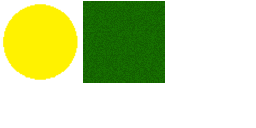
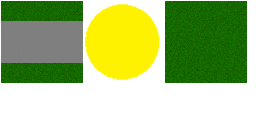
temp

diff --git a/core/src/com/imbabot/pacman_game/Hero.java b/core/src/com/imbabot/pacman_game/Hero.java
@@ -1,5 +1,6 @@
 package com.imbabot.pacman_game;
 
+
 import com.badlogic.gdx.Gdx;
 import com.badlogic.gdx.Input;
 import com.badlogic.gdx.graphics.Texture;
@@ -12,6 +13,7 @@ import com.badlogic.gdx.math.Vector2;
 
 public class Hero {
 
+
     private int rightBorder;
     private int leftBorder;
     private int top;
@@ -22,11 +24,6 @@ public class Hero {
     private float cellY;
     private TextureRegion texture;
     private float speed;
-
-    private boolean isPressedD;
-    private boolean isPressedA;
-    private boolean isPressedW;
-    private boolean isPressedS;
 
     private float offset;
 
@@ -43,10 +40,6 @@ public class Hero {
         this.cellX = 1;
         this.cellY = 1;
         this.speed = 5f;
-        this.isPressedD = false;
-        this.isPressedA = false;
-        this.isPressedS = false;
-        this.isPressedW = false;
         this.offset = 36;
         this.stringBuilder = new StringBuilder();
         this.score = 0;
@@ -56,25 +49,26 @@ public class Hero {
         this.top = 8;
         this.bottom = 0;
     }
-
     public void update(float dt){
         movement(dt);
         checkBounds();
     }
 
-    private void checkBounds(){
-        if (cellX > rightBorder){
+
+    private void checkBounds() {
+        if (cellX > rightBorder) {
             cellX = rightBorder;
         }
-        if (cellX < leftBorder){
+        if (cellX < leftBorder) {
             cellX = leftBorder;
         }
-        if (cellY > top){
+        if (cellY > top) {
             cellY = top;
         }
-        if (cellY < bottom){
+        if (cellY < bottom) {
             cellY = bottom;
         }
+    }
 
 //        if (position.x > 1280 - offset){
 //            position.x = 1280 - offset;
@@ -88,46 +82,20 @@ public class Hero {
 //        if (position.y < 0 + offset){
 //            position.y = 0 + offset;
 //        }
-    }
+
 
     public void movement(float dt){
-        if (Gdx.input.isKeyJustPressed(Input.Keys.D)){
-            isPressedD = true;
-            isPressedA = false;
-            isPressedS = false;
-            isPressedW = false;
-        }
-        if (Gdx.input.isKeyJustPressed(Input.Keys.A)){
-            isPressedD = false;
-            isPressedA = true;
-            isPressedS = false;
-            isPressedW = false;
-        }
-        if (Gdx.input.isKeyJustPressed(Input.Keys.S)){
-            isPressedD = false;
-            isPressedA = false;
-            isPressedS = true;
-            isPressedW = false;
-        }
-        if (Gdx.input.isKeyJustPressed(Input.Keys.W)){
-            isPressedD = false;
-            isPressedA = false;
-            isPressedS = false;
-            isPressedW = true;
-        }
-        if (isPressedA){
-            cellX -= speed * dt;
-        }
-        if (isPressedD){
+        if (Gdx.input.isKeyPressed(Input.Keys.D)){
             cellX += speed * dt;
-        }
-        if (isPressedS){
+        }else if (Gdx.input.isKeyPressed(Input.Keys.A)){
+            cellX -= speed * dt;
+        }else if (Gdx.input.isKeyPressed(Input.Keys.S)){
             cellY -= speed * dt;
-        }
-        if (isPressedW){
+        }else if (Gdx.input.isKeyPressed(Input.Keys.W)){
             cellY += speed * dt;
         }
     }
+
 
     public void renderGUI(SpriteBatch batch, BitmapFont font){
         stringBuilder.setLength(0);

diff --git a/core/src/com/imbabot/pacman_game/GameMap.java b/core/src/com/imbabot/pacman_game/GameMap.java
@@ -10,18 +10,67 @@ public class GameMap {
     public static final int CELLS_Y = 9;
     public static final int CELL_SIZE = 80;
 
+    private final int TERRAIN_GRASS = 0;
+    private final int TERRAIN_WALL = 1;
+
+    public static int getCellsX() {
+        return CELLS_X;
+    }
+
+    public static int getCellsY() {
+        return CELLS_Y;
+    }
+
+
+
     private byte[][] data;
     private TextureRegion grassTexture;
+    private TextureRegion wallTexture;
 
     public GameMap(TextureAtlas atlas){
         this.data = new byte[CELLS_X][CELLS_Y];
         this.grassTexture = atlas.findRegion("grass");
+        this.wallTexture =  atlas.findRegion("walls");
+        this.data[1][0] = TERRAIN_WALL;
+        this.data[2][0] = TERRAIN_WALL;
+        this.data[3][0] = TERRAIN_WALL;
+        this.data[4][0] = TERRAIN_WALL;
+        this.data[5][0] = TERRAIN_WALL;
+        this.data[6][0] = TERRAIN_WALL;
+        this.data[7][0] = TERRAIN_WALL;
+        this.data[8][0] = TERRAIN_WALL;
+        this.data[9][0] = TERRAIN_WALL;
+        this.data[10][0] = TERRAIN_WALL;
+        this.data[11][0] = TERRAIN_WALL;
+        this.data[12][0] = TERRAIN_WALL;
+        this.data[13][0] = TERRAIN_WALL;
+        this.data[14][0] = TERRAIN_WALL;
+
+
     }
+
+    public boolean isCellPossible(float CX, float CY){
+        if (CX < 0 || CX > getCellsX() - 1 || CY < 0 || CY > getCellsY() - 1){
+            return false;
+        }
+        return true;
+    }
+
+
+
 
     public void render(SpriteBatch batch) {
         for (int i = 0; i < CELLS_X ; i++) {
             for (int j = 0; j < CELLS_Y ; j++) {
+                if (data[i][j] == TERRAIN_GRASS)
                 batch.draw(grassTexture, i * CELL_SIZE, j * CELL_SIZE);
+            }
+        }
+        for (int i = 0; i < CELLS_X ; i++) {
+            for (int j = 0; j < CELLS_Y ; j++) {
+                if (data[i][j] == TERRAIN_WALL){
+                    batch.draw(wallTexture, i * CELL_SIZE, j * CELL_SIZE);
+                }
             }
         }
     }
